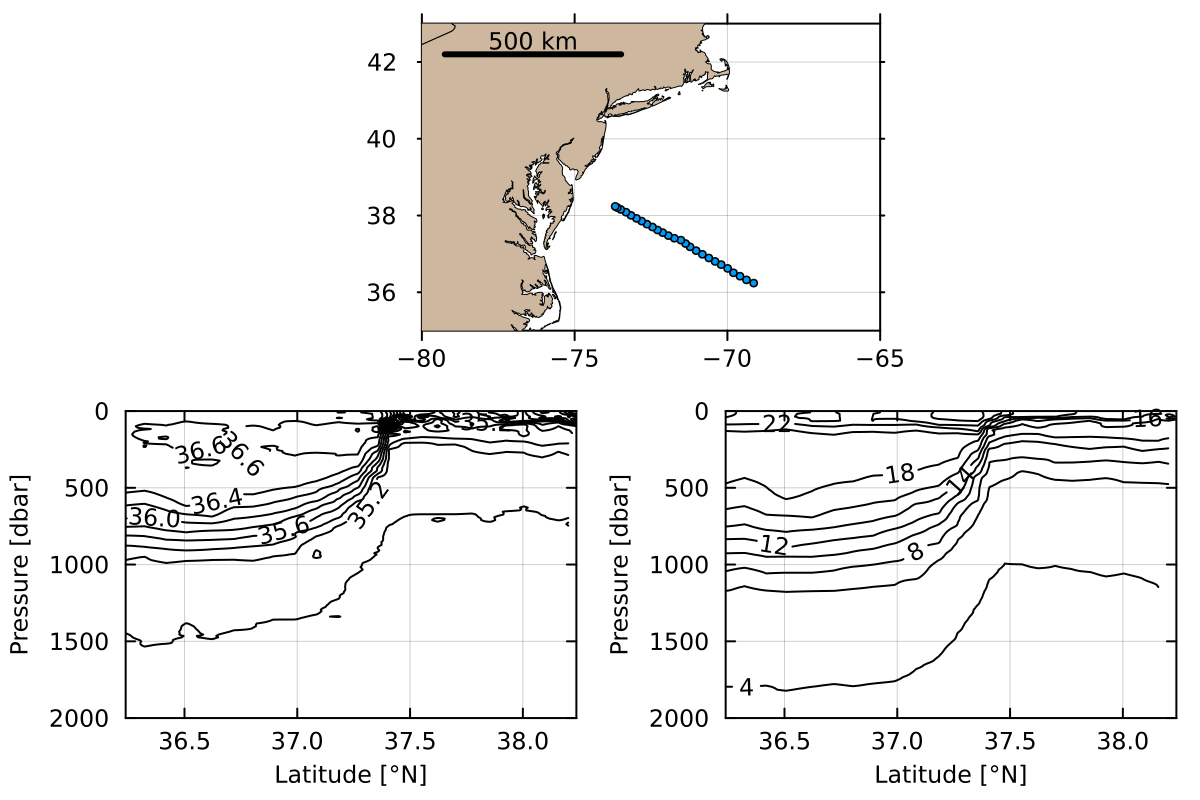
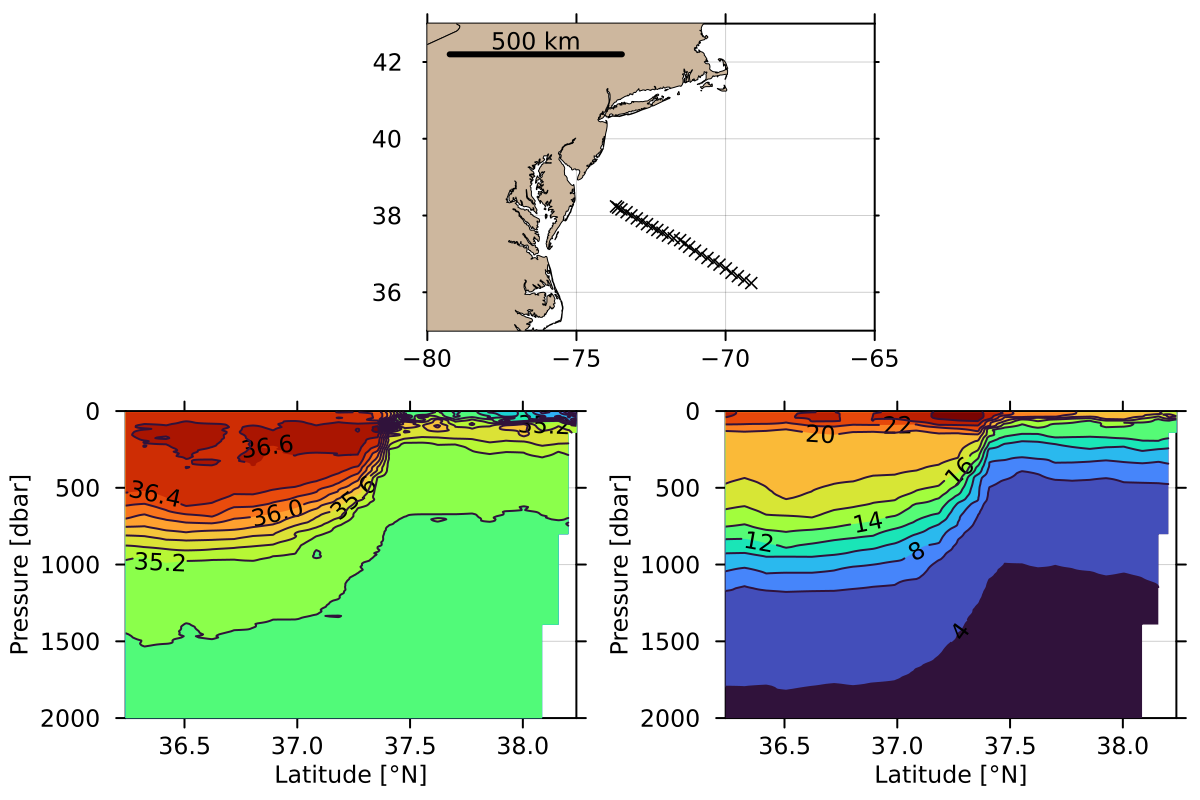
update docs/examples for new functions

diff --git a/docs/src/examples.md b/docs/src/examples.md
@@ -88,14 +88,12 @@ near = distance .< radius
 index = index_all[recent.&near, :]
 # Extend region of map to show geographic context
 aspect_ratio = 1.0 / cos(SI_lat * pi / 180.0)
-scale = radius / 111.
-scatter(index.longitude, index.latitude,
+scale = radius / 111.0
+plot_stations(index.longitude, index.latitude,
     xlims=SI_lon .+ scale .* (-1.2, 1.2) .* aspect_ratio,
     ylims=SI_lat .+ scale .* (-1.2, 1.2),
-    aspect_ratio=aspect_ratio,
-    tickdirection=:out, framestyle=:box, dpi=200, legend=false)
-plot_coastline!(coastline())
-float_IDs = replace.(index.file, r".*/(.*)_.*" => s"\1") |> unique
+    tickdirection=:out, framestyle=:box, legend=false)
+float_IDs = replace.(index.file, r".*/(.*)_.*" => s"\1") |> unique;
 title!("$(length(index.file)) profiles of $(length(float_IDs)) floats", titlefontsize=9)
 scale_bar(100, :right, :top)
 #savefig("argo_search.png")
@@ -156,7 +154,7 @@ s = read_section(dir);
 s.data = s.data[s["longitude"].<-68.0];
 sg = grid_section(s);
 
-p1 = plot_section(s, xlim=(-80, -65), ylim=(35, 43));
+p1 = plot_stations(s, xlim=(-80, -65), ylim=(35, 43));
 scale_bar(500);
 p2 = plot_section(sg, "salinity", ylim=(0, 2000));
 p3 = plot_section(sg, "temperature", ylim=(0, 2000));
